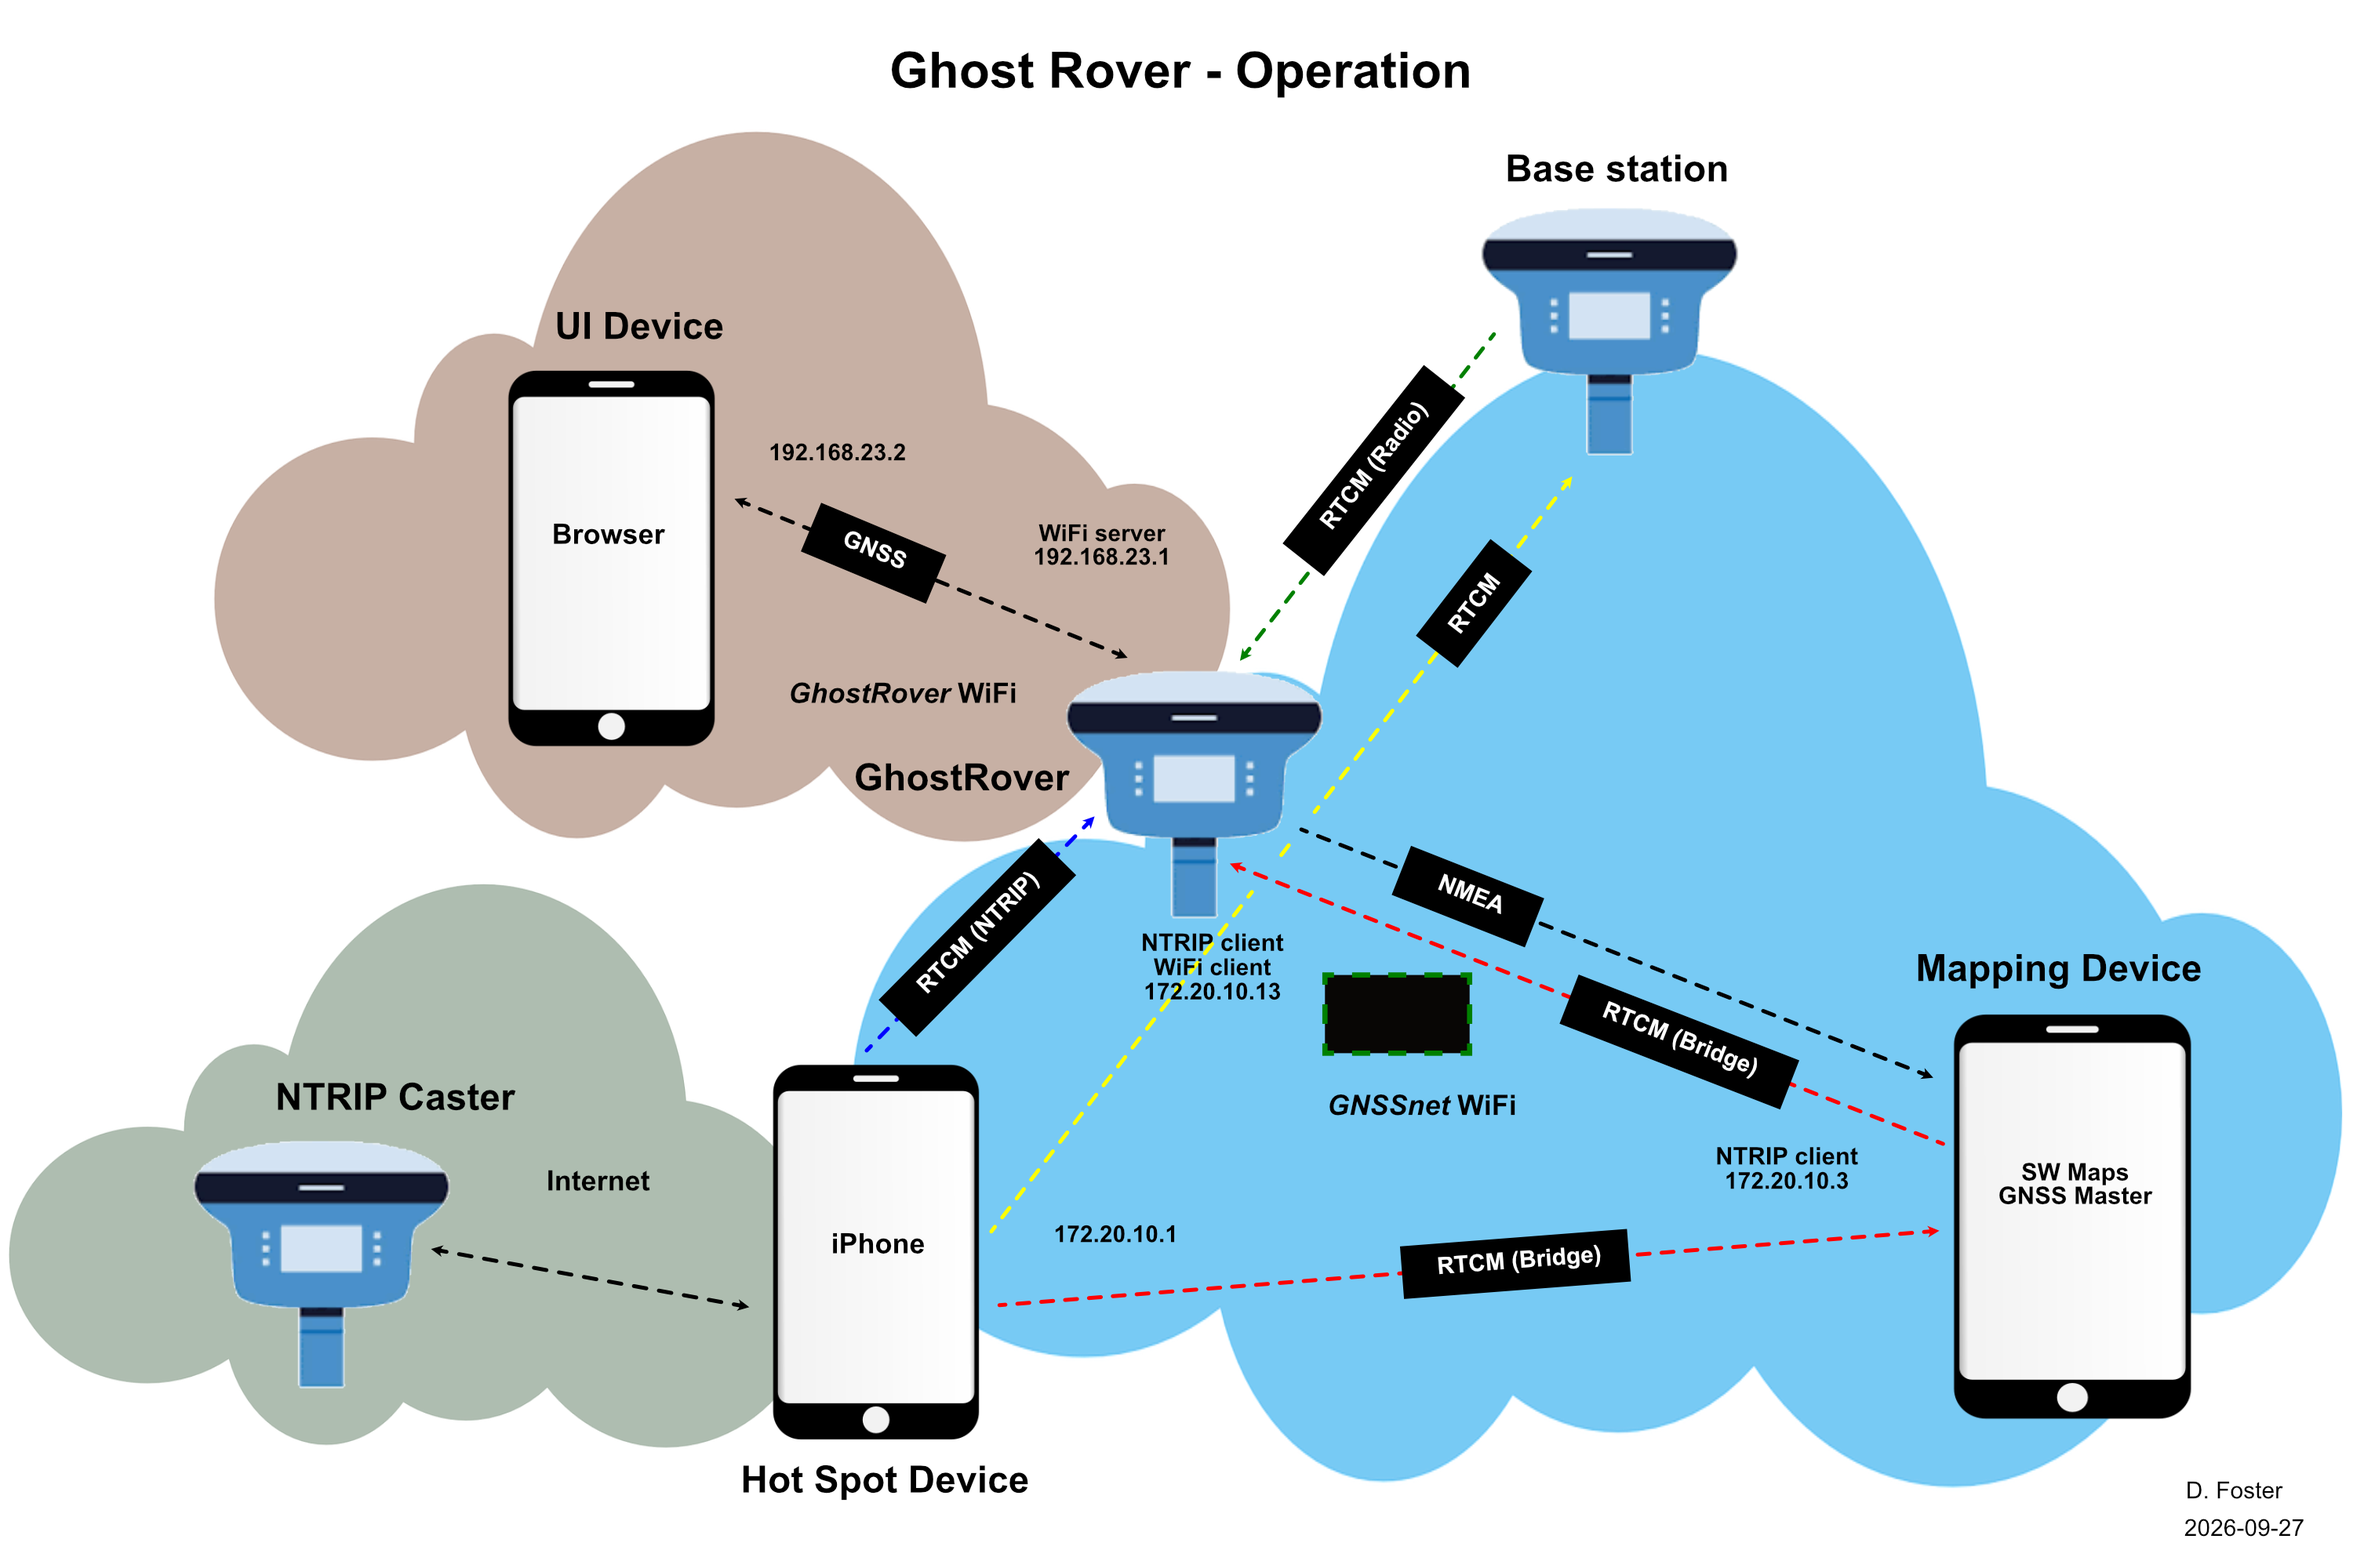
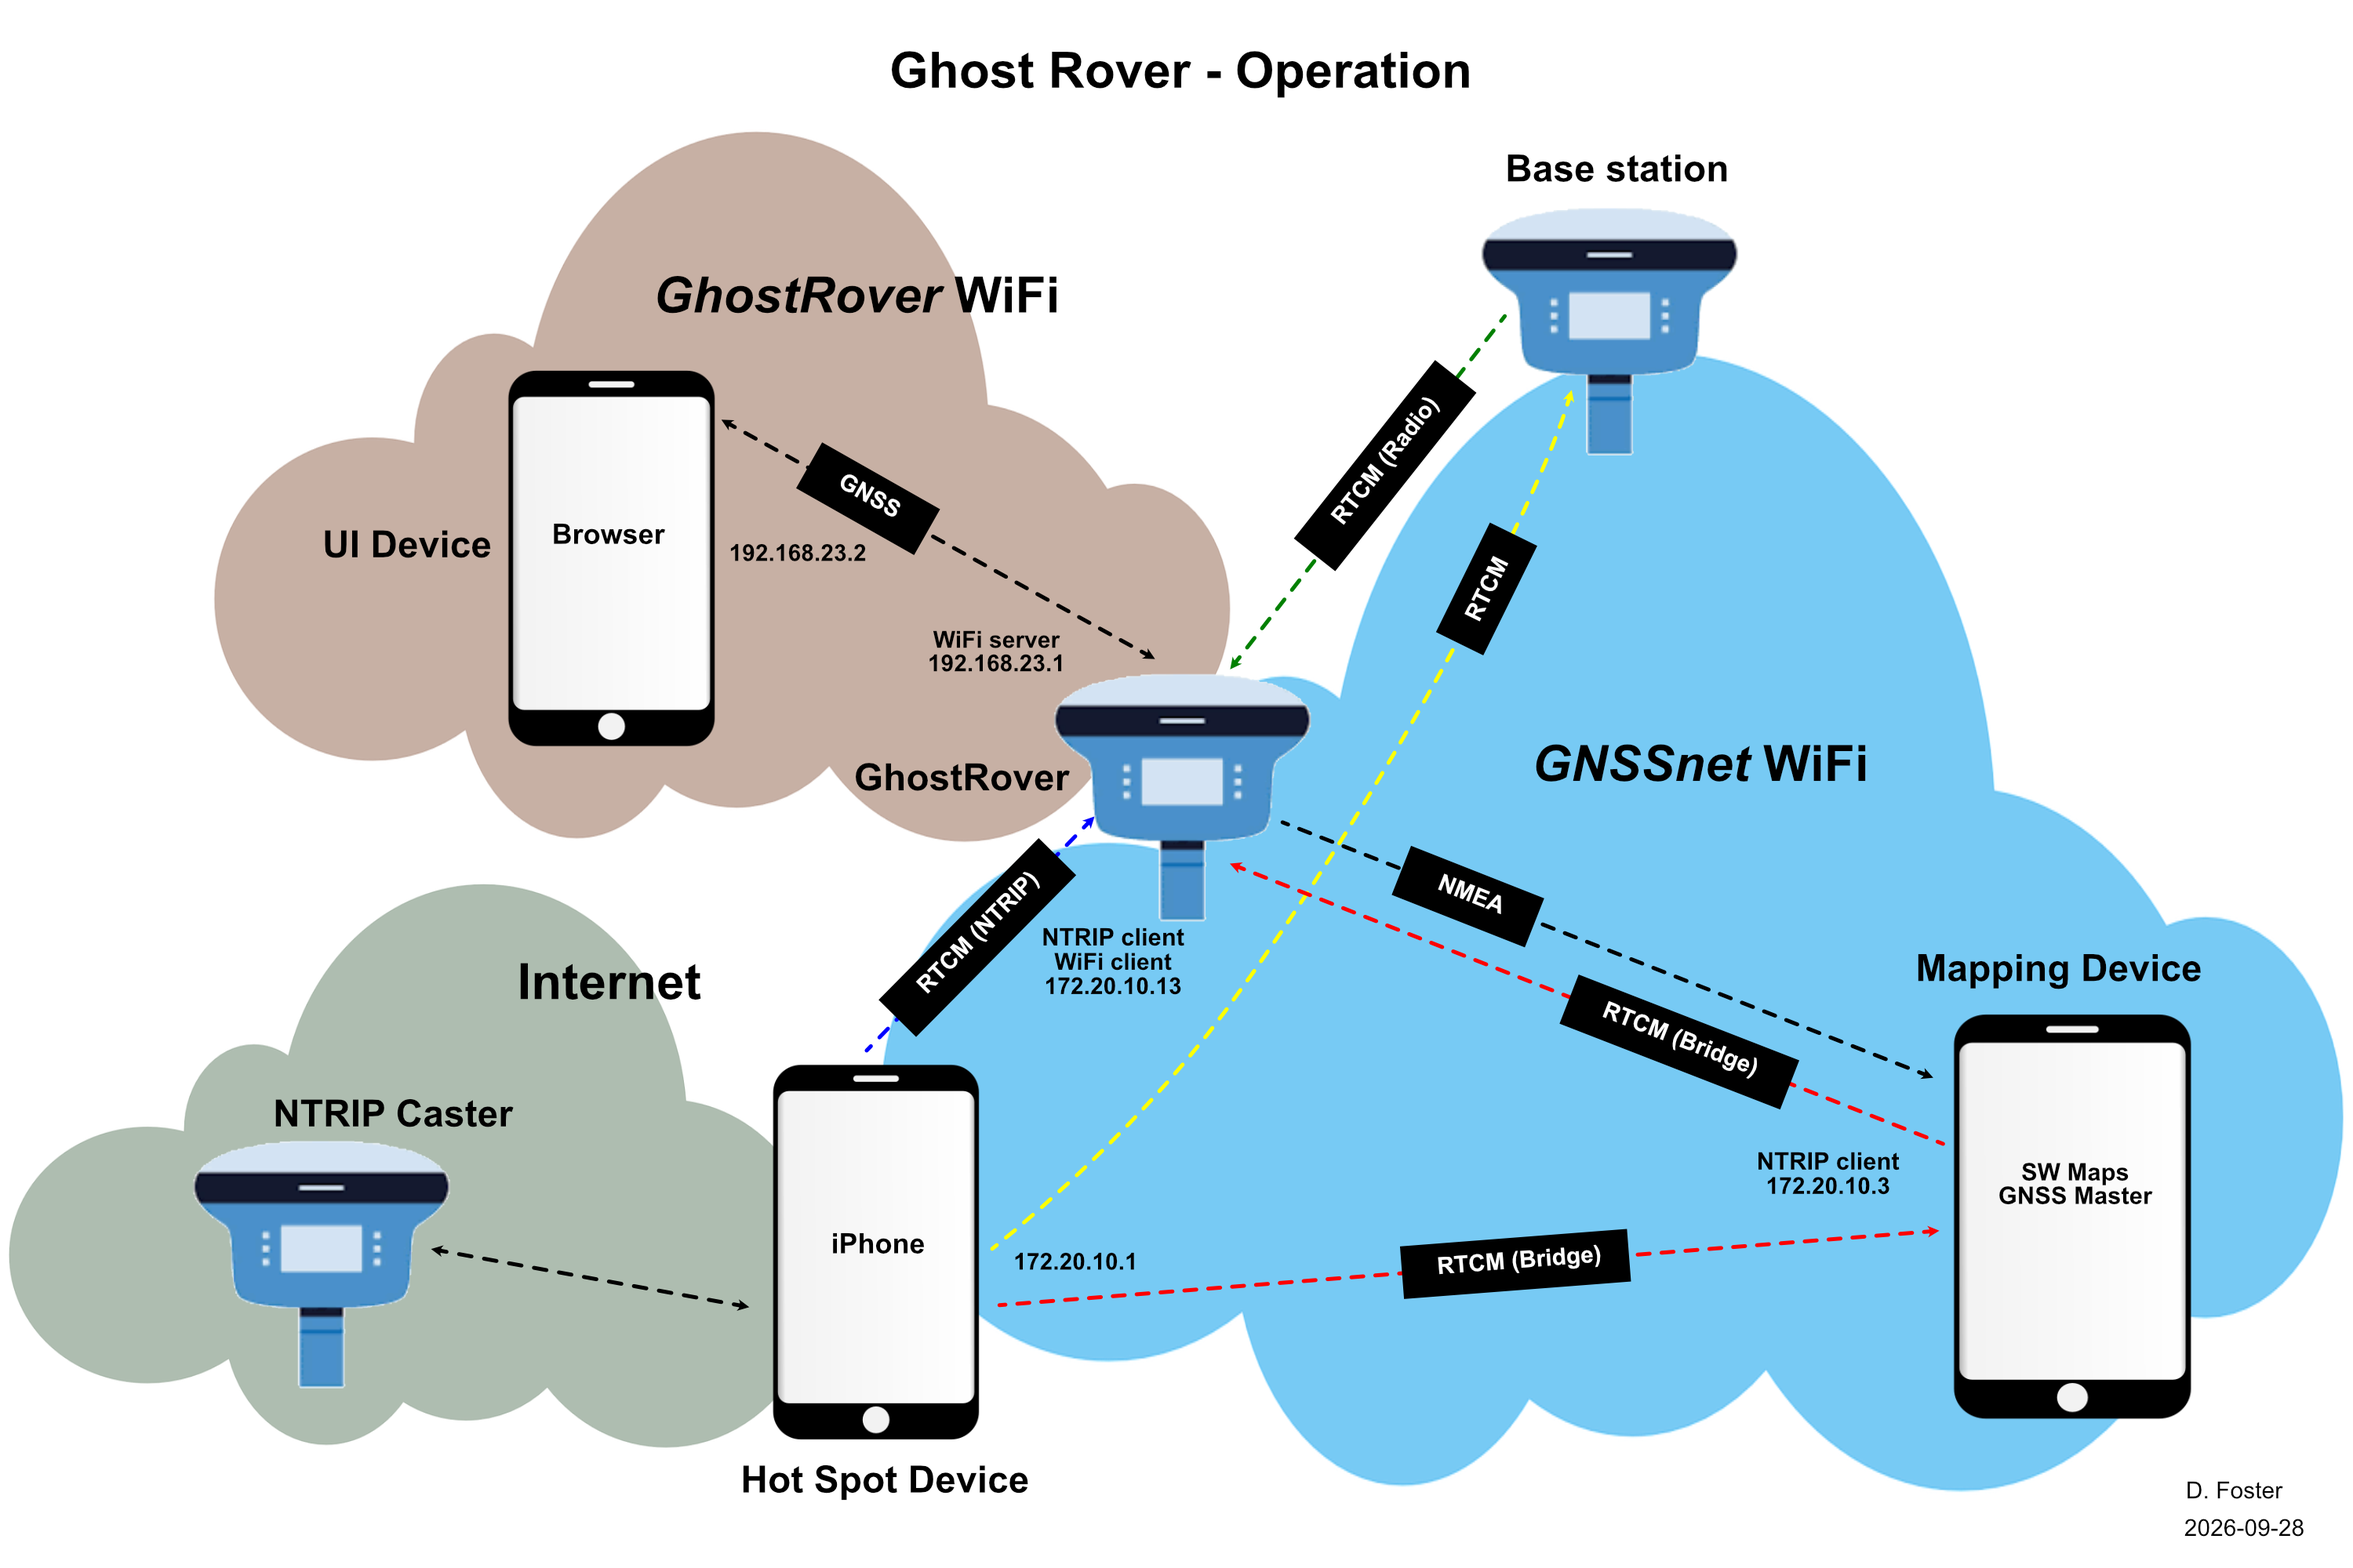
Update README. Update operation diagram.

diff --git a/README.md b/README.md
@@ -1,8 +1,14 @@
-# Ghost Rover - Version 3
-"Invisible" GNSS rover. <br>
-Last updated 2026-09-16. <br>
+# GhostRover - Version 3.4
+GhostRover is an "invisible" GNSS rover.
+
+Why invisible? Let's say you want to record a survey point by using a geo-located photo. The object's GNSS position and height can be recorded by first locating the object with GhostRover, then locking its coordinates using the UI. The rover can then be moved out of the picture. The result? An uncluttered photo of the object with its exact position and height recorded in the photo meta data. This is ideal for locating and photographing visual objects such as cemetery headstones, benchmarks, artifacts, etc.<br>
+
+Check the extensive comments in DougFoster_Ghost_Rover.ino (ss of 2026-09-28 they need to be updated) as well as the extensive comments in all UI files.
+
+Last updated 2026-09-28. <br>
+
 https://github.com/doug-foster/DougFoster_Ghost_Rover <br>
 https://github.com/doug-foster/DougFoster_Ghost_Rover_EVK_RTCM_relay <br>
 <br>
-![alt text](<doc/Ghost Rover v3.4.0 - Wiring.jpg>)
-![alt text](<doc/Ghost Rover v3.4.0 - Operation.jpg>)
+![Ghost Rover V3.4 - wiring diagram](ui/wiring.png)
+![Ghost Rover V3.4 - operation diagram](ui/operation.png)
